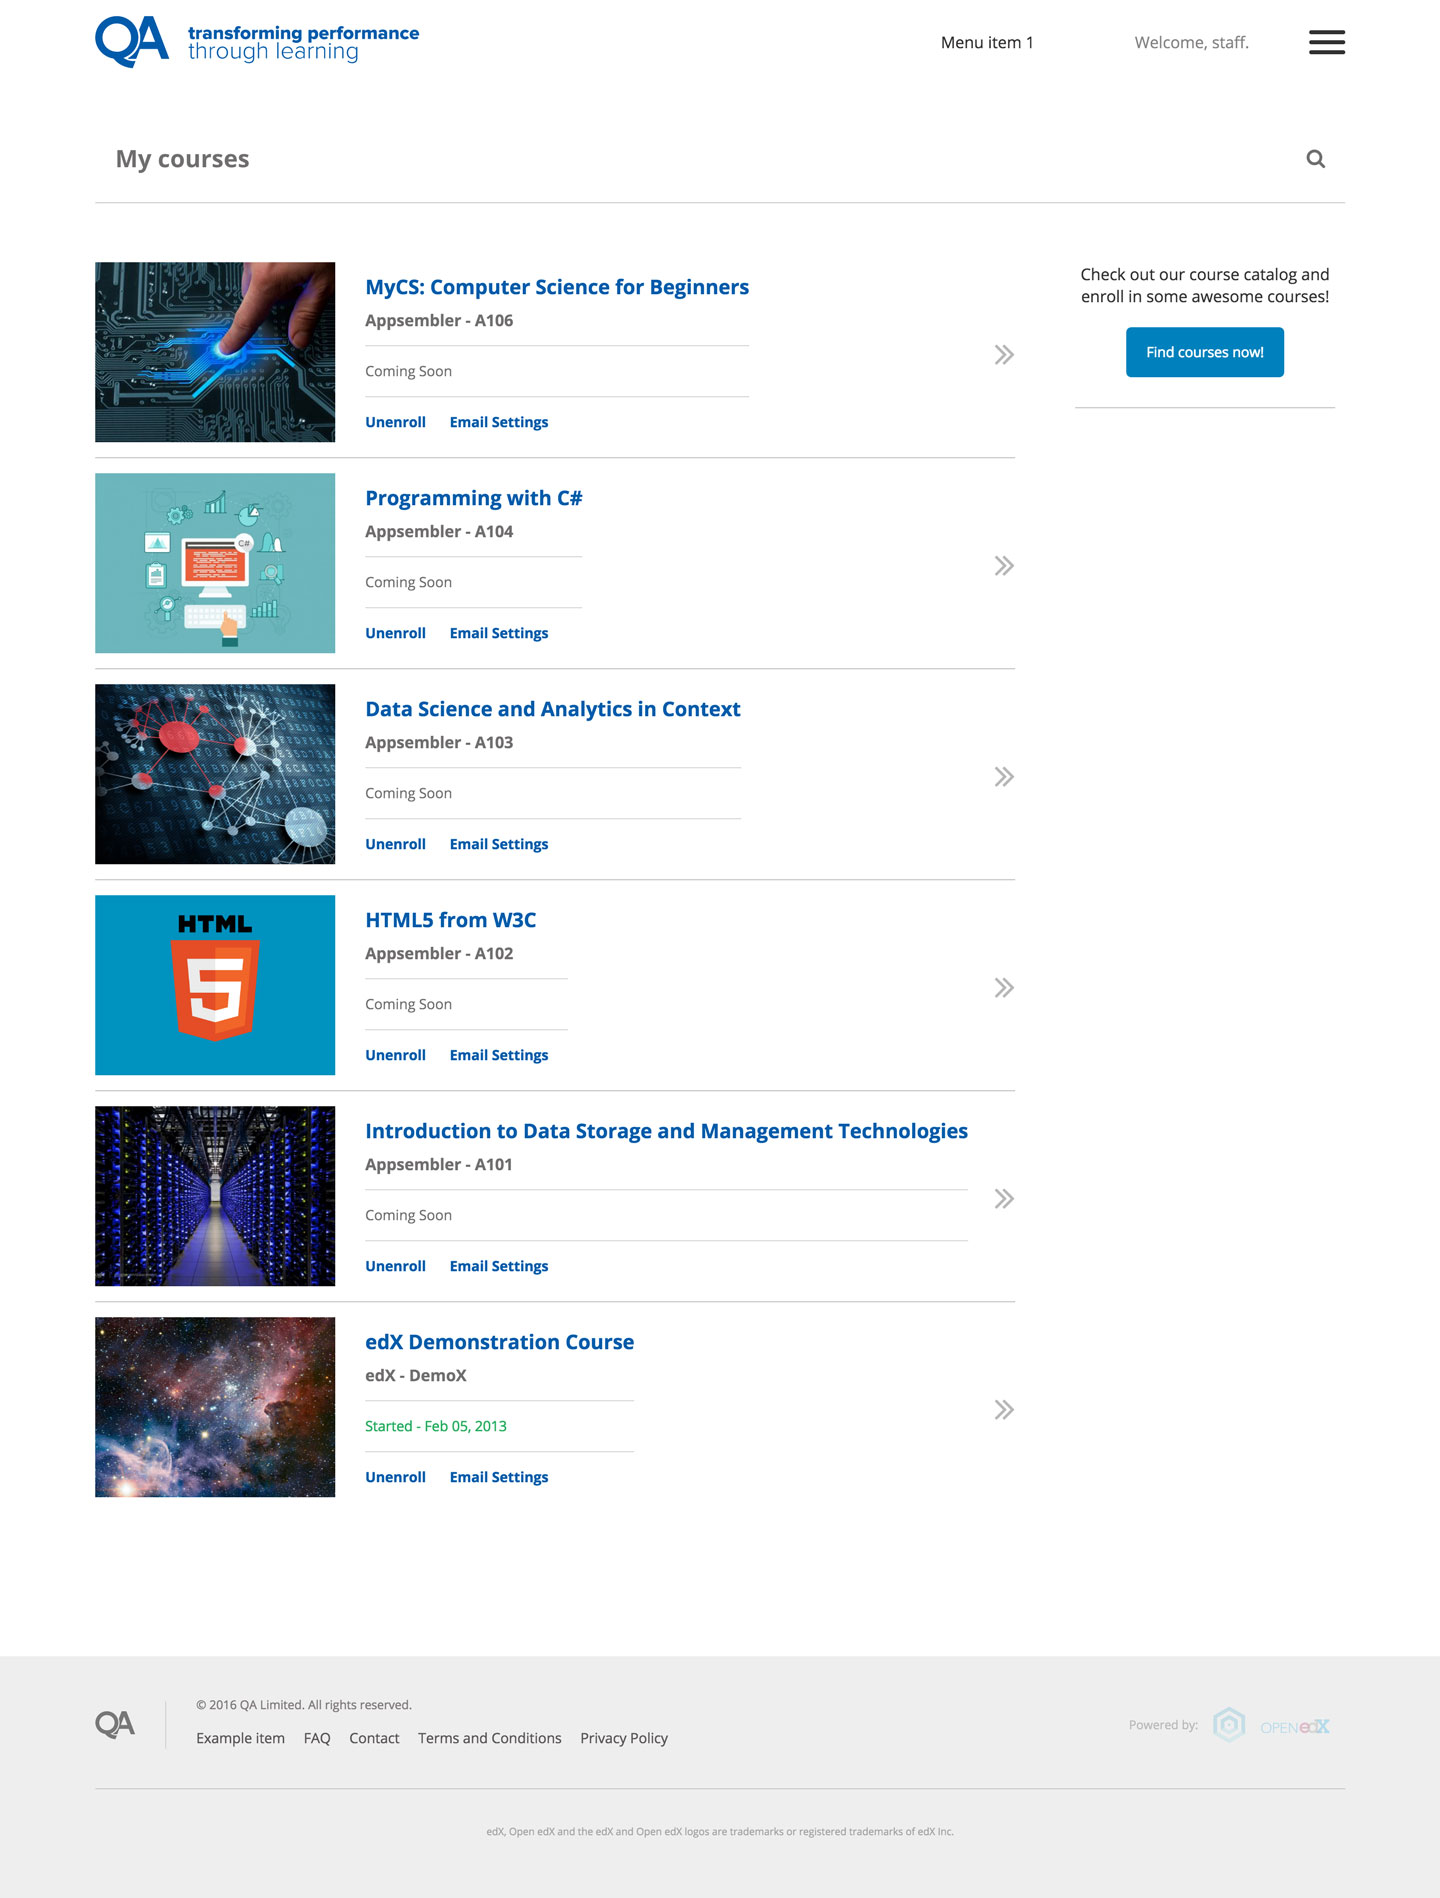
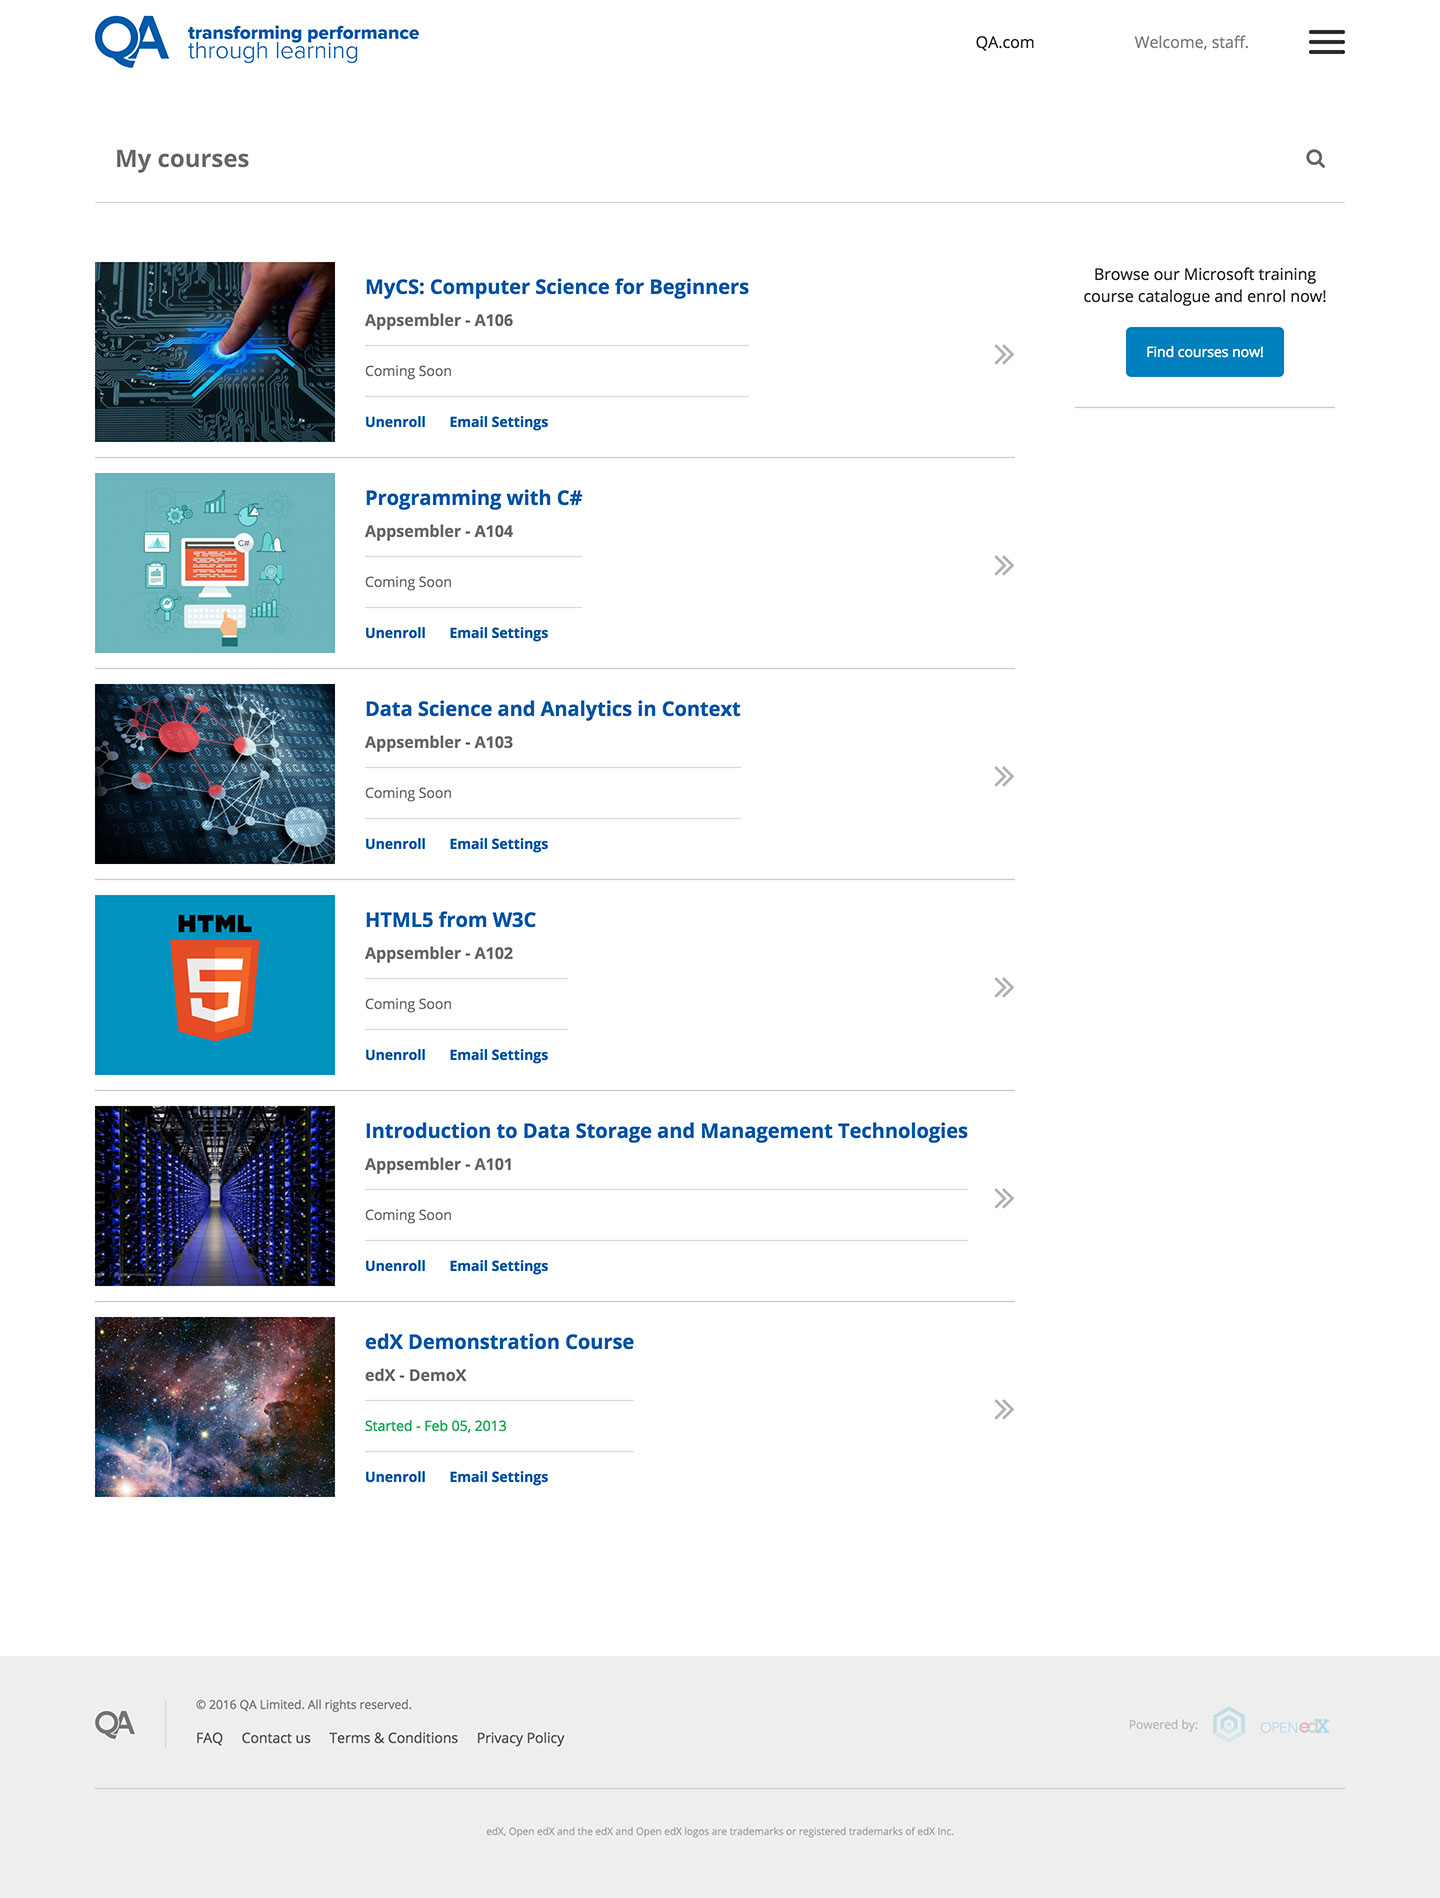
update theme content according to client input

diff --git a/templates/theme-variables.html b/templates/theme-variables.html
@@ -61,8 +61,7 @@
   <%
     return [
       #['LINK_TEXT', 'LINK_URL', 'LINK_CLASS', 'ADDITIONAL_ATTRIBUTES']
-      ['Menu item 1', '#', '', ''],
-      ['Menu item 2', '#', '', '']
+      ['QA.com', 'http://www.qa.com', '', 'target="_blank"']
     ]
   %>
 </%def>
@@ -74,7 +73,7 @@
   <%
     return [
       #['LINK_TEXT', 'LINK_URL', 'LINK_CLASS', 'ADDITIONAL_ATTRIBUTES']
-      ['Menu item 1', '#', '', '']
+      ['QA.com', 'http://www.qa.com', '', 'target="_blank"']
     ]
   %>
 </%def>
@@ -86,10 +85,9 @@
   <%
     return [
       #['LINK_TEXT', 'LINK_URL', 'LINK_CLASS', 'ADDITIONAL_ATTRIBUTES']
-      ['Example item', '#', '', 'target="_blank"'],
       ['FAQ', marketing_link('FAQ'), '', ''],
-      ['Contact', reverse('contact'), '', ''],
-      ['Terms and Conditions', 'http://apprenticeships.qa.com/about-us/legal-notices/terms-and-conditions', '', ''],
+      ['Contact us', reverse('contact'), '', ''],
+      ['Terms & Conditions', 'http://apprenticeships.qa.com/about-us/legal-notices/terms-and-conditions', '', ''],
       ['Privacy Policy', 'http://apprenticeships.qa.com/about-us/legal-notices/privacy-policy', '', '']
     ]
   %>
@@ -129,26 +127,26 @@
         [
           'static-block', 'static-blocks/_hero-section-01.html', {
             # template settings
-            'hero_title' : "Example title of the hero section", ## leave value empty if you don't want it displayed.
-            'hero_subtitle' : "This is the hero subtitle. Below this you can have a CTA button. You can choose what it says and what it does - it can either lead to another page, or it can open a YouTube video popup. Or you can have both those buttons at the same time!", ## leave value empty if you don't want it displayed.
-            'cta_link' : "", ## leave value empty if you don't want a CTA button displayed.
-            'cta_link_text' : "", ## leave value empty if you don't want a CTA button displayed.
-            'popup_video_url' : "r5YdS_ZjXnc", ## YouTube video ID - leave value empty if you don't want a video button and modal displayed.
-            'popup_video_text' : "Watch our video", ## leave value empty if you don't want a video button and modal displayed.
+            'hero_title' : "Award-winning professional training", ## leave value empty if you don't want it displayed.
+            'hero_subtitle' : "", ## leave value empty if you don't want it displayed.
+            'cta_link' : "/register", ## leave value empty if you don't want a CTA button displayed.
+            'cta_link_text' : "Register", ## leave value empty if you don't want a CTA button displayed.
+            'popup_video_url' : "", ## YouTube video ID - leave value empty if you don't want a video button and modal displayed.
+            'popup_video_text' : "", ## leave value empty if you don't want a video button and modal displayed.
             'popup_video_id' : "HeroVideo", ## leave value empty if you don't want a video button and modal displayed.
             'text_color' : "#fff",
-            'bg_image_url' : '/static/themes/qa-dogwood/images/hero-photo-01.jpg', ## leave empty if you want just a full color background
+            'bg_image_url' : '/static/themes/qa-dogwood/images/hero-photo-02.jpg', ## leave empty if you want just a full color background
             'extra_css' : "" ## add custom css to be added inline to the wrapper element
           }
         ],
         [
           'static-block', 'static-blocks/_heading-plus-text-plus-cta.html', {
             # template settings
-            'heading' : "Heading for an additional text block", ## leave value empty if you don't want it displayed.
-            'text' : "<p>You can have additional text blocks on the landing page.</p><p>It can have solid background with white text on it (see the one below on this page), or one like this which is white with standard text color. You can have a CTA below this text chunk that leads to another page, with custom button text.</p><p>The text can be aligned left or centered.</p>", ## leave value empty if you don't want it displayed.
-            'cta_link' : "#", ## leave value empty if you don't want a CTA button displayed.
-            'cta_link_text' : "CTA Button", ## leave value empty if you don't want a CTA button displayed.
-            'optional_classes' : "centered", ## can be "centered" to have all text centered, or "negative" if you want white text on solid color background
+            'heading' : "5 reasons to choose QA OpenEdX for virtual training", ## leave value empty if you don't want it displayed.
+            'text' : '<h2 style="font-size: 2rem; margin: 2.5rem 0 1.5rem;">Classroom-style experience</h2><p>Our effective ‘C3’ (collaborative, contextual, conversational) methodology applies the principles of our classroom courses in a virtual setting</p><h2 style="font-size: 2rem; margin: 2.5rem 0 1.5rem;">Unique online resources</h2><p>Our virtual learning platform, OpenEdX, allows you to network, stream course recordings and view new content added by the learning professionals</p><h2 style="font-size: 2rem; margin: 2.5rem 0 1.5rem;">Learn from anywhere</h2><p>You can access each learning session from anywhere with internet access, ensuring your comfort and saving you time and travel costs</p><h2 style="font-size: 2rem; margin: 2.5rem 0 1.5rem;">Bitesize learning sessions</h2><p>There is no need for long periods off work, with multiple short and focussed learning sessions spaced over a few weeks</p><h2 style="font-size: 2rem; margin: 2.5rem 0 1.5rem;">Full interactions</h2><p>You will be capable of full virtual interactions with the experienced learning professional and the other attendees during each session</p>', ## leave value empty if you don't want it displayed.
+            'cta_link' : "", ## leave value empty if you don't want a CTA button displayed.
+            'cta_link_text' : "", ## leave value empty if you don't want a CTA button displayed.
+            'optional_classes' : "", ## can be "centered" to have all text centered, or "negative" if you want white text on solid color background
             'extra_css' : "" ## add custom css to be added inline to the wrapper element
           }
         ],
@@ -165,8 +163,8 @@
             'max_courses' : 4, ## required, sets max number of courses to be displayed in the block
             'course_template_class' : 'a--course-tile-01', ## required, defined as "a--{template-name}"
             'course_template' : 'single-course/_course-tile-01.html', ## required
-            'section_heading' : "Our latest courses:", ## leave value empty if you don't want it displayed.
-            'section_text' : "The title above for the courses listing is customisable, as well sa this piece of text. There are three different types of course tiles (all three types displayed). Text can be aligned left or centered.", ## leave value empty if you don't want it displayed.
+            'section_heading' : "What courses are available?", ## leave value empty if you don't want it displayed.
+            'section_text' : "A number of our most popular courses are available in virtual learning format. See the full list below:", ## leave value empty if you don't want it displayed.
             'optional_classes' : "", ## can be "centered" to have all text centered
             'extra_css' : "" ## add custom css to be added inline to the wrapper element
           }
@@ -174,10 +172,10 @@
         [
           'static-block', 'static-blocks/_heading-plus-text-plus-cta.html', {
             # template settings
-            'heading' : "Additional text block headline", ## leave value empty if you don't want it displayed.
-            'text' : "<p>This one's aligned left.</p><p>Duis autem vel eum iriure dolor in hendrerit in vulputate velit esse molestie consequat, vel illum dolore eu feugiat nulla facilisis at vero eros et accumsan et iusto odio dignissim qui blandit praesent luptatum zzril delenit augue duis dolore te feugait nulla facilisi. Nam liber tempor cum soluta nobis eleifend option congue nihil imperdiet doming id quod mazim placerat facer possim assum. Typi non habent claritatem insitam; est usus legentis in iis qui facit eorum claritatem. Investigationes demonstraverunt lectores legere me lius quod ii legunt saepius.</p>", ## leave value empty if you don't want it displayed.
-            'cta_link' : "#", ## leave value empty if you don't want a CTA button displayed.
-            'cta_link_text' : "CTA Button", ## leave value empty if you don't want a CTA button displayed.
+            'heading' : "Trusted, awarded and accredited", ## leave value empty if you don't want it displayed.
+            'text' : '<p>Fully accredited to ensure we provide the highest possible standards in learning.</p><div style="margin-top: 3rem; display: -webkit-box; display: -moz-box; display: box; display: -webkit-flex; display: -moz-flex; display: -ms-flexbox; display: flex;-webkit-justify-content: space-between; justify-content: space-between; align-items: center; -webkit-align-items: center;"><img src="/static/themes/qa-dogwood/images/accreditations/accr00.png" style="width: 16.66%; height: auto; max-width: 13rem;" /><img src="/static/themes/qa-dogwood/images/accreditations/accr01.png" style="width: 16.66%; height: auto; max-width: 13rem;" /><img src="/static/themes/qa-dogwood/images/accreditations/accr02.png" style="width: 16.66%; height: auto; max-width: 13rem;" /><img src="/static/themes/qa-dogwood/images/accreditations/accr03.png" style="width: 16.66%; height: auto; max-width: 13rem;" /><img src="/static/themes/qa-dogwood/images/accreditations/accr04.png" style="width: 16.66%; height: auto; max-width: 13rem;" /><img src="/static/themes/qa-dogwood/images/accreditations/accr05.png" style="width: 16.66%; height: auto; max-width: 13rem;" /></div>', ## leave value empty if you don't want it displayed.
+            'cta_link' : "", ## leave value empty if you don't want a CTA button displayed.
+            'cta_link_text' : "", ## leave value empty if you don't want a CTA button displayed.
             'optional_classes' : "negative", ## can be "centered" to have all text centered, or "negative" if you want white text on solid color background
             'extra_css' : "" ## add custom css to be added inline to the wrapper element
           }
@@ -203,24 +201,6 @@
           'about-course-template', 'pages/course-about/_course-about-01.html', {
             # template settings
             'optional_classes' : "", ##
-            'extra_css' : "" ## add custom css to be added inline to the wrapper element
-          }
-        ],
-        [
-          'courses-list', 'static-blocks/_line-separator.html', {
-            # template settings
-            'optional_classes' : "", ## if none line will have height of 0.1rem (1px by default), can be set to "2px", "5px" or "8px"
-            'extra_css' : "" ## add custom css to be added inline to the wrapper element
-          }
-        ],
-        [
-          'static-block', 'static-blocks/_heading-plus-text-plus-cta.html', {
-            # template settings
-            'heading' : "Optional content title", ## leave value empty if you don't want it displayed.
-            'text' : "<p>You can add some additional content here. You can add a CTA under this section as well.</p><p>Lorem ipsum dolor sit amet, consectetuer adipiscing elit, sed diam nonummy nibh euismod tincidunt ut laoreet dolore magna aliquam erat volutpat. Ut wisi enim ad minim veniam, quis nostrud exerci tation ullamcorper suscipit lobortis nisl ut aliquip ex ea commodo consequat.</p>", ## leave value empty if you don't want it displayed.
-            'cta_link' : "#", ## leave value empty if you don't want a CTA button displayed.
-            'cta_link_text' : "CTA button", ## leave value empty if you don't want a CTA button displayed.
-            'optional_classes' : "centered", ## can be "centered" to have all text centered, or "negative" if you want white text on solid color background
             'extra_css' : "" ## add custom css to be added inline to the wrapper element
           }
         ]
@@ -258,19 +238,16 @@
       #   }
       #]
       [
-        'static-block', 'static-blocks/_hero-section-01.html', {
+        'static-block', 'static-blocks/_heading-plus-text-plus-cta.html', {
           # template settings
-          'hero_title' : "Your custom title", ## leave value empty if you don't want it displayed.
-          'hero_subtitle' : "You can change the text that goes here. You can also change the background image of this area.", ## leave value empty if you don't want it displayed.
+          'heading' : "", ## leave value empty if you don't want it displayed.
+          'text' : '<h2 style="font-size: 3.2rem; line-height: 140%; max-width: 86rem; margin: 2.5rem auto 1.5rem;">View our comprehensive training catalogue and check out our flagship training centres.</h2>', ## leave value empty if you don't want it displayed.
           'cta_link' : "", ## leave value empty if you don't want a CTA button displayed.
           'cta_link_text' : "", ## leave value empty if you don't want a CTA button displayed.
-          'popup_video_url' : "", ## YouTube video ID - leave value empty if you don't want a video button and modal displayed.
-          'popup_video_text' : "", ## leave value empty if you don't want a video button and modal displayed.
-          'popup_video_id' : "", ## leave value empty if you don't want a video button and modal displayed.
+          'optional_classes' : "centered negative", ## can be "centered" to have all text centered, or "negative" if you want white text on solid color background
           'text_color' : "#fff",
-          'bg_image_url' : "", ## leave empty if you want just a full color background
           'extra_css' : "padding-top: 5rem; padding-bottom: 5rem;" ## add custom css to be added inline to the wrapper element
-         }
+        }
       ],
       [
         'course-catalogue', 'pages/course-catalogue/_course-catalogue-01.html', {
@@ -281,17 +258,6 @@
         'courses-list', 'static-blocks/_line-separator.html', {
           # template settings
           'optional_classes' : "", ## if none line will have height of 0.1rem (1px by default), can be set to "2px", "5px" or "8px"
-          'extra_css' : "" ## add custom css to be added inline to the wrapper element
-        }
-      ],
-      [
-        'static-block', 'static-blocks/_heading-plus-text-plus-cta.html', {
-          # template settings
-          'heading' : "Optional content can go here", ## leave value empty if you don't want it displayed.
-          'text' : "<p>Lorem ipsum dolor sit amet, consectetuer adipiscing elit, sed diam nonummy nibh euismod tincidunt ut laoreet dolore magna aliquam erat volutpat. Ut wisi enim ad minim veniam, quis nostrud exerci tation ullamcorper suscipit lobortis nisl ut aliquip ex ea commodo consequat.</p>", ## leave value empty if you don't want it displayed.
-          'cta_link' : "http://www.appsembler.com", ## leave value empty if you don't want a CTA button displayed.
-          'cta_link_text' : "CTA Button", ## leave value empty if you don't want a CTA button displayed.
-          'optional_classes' : "", ## can be "centered" to have all text centered, or "negative" if you want white text on solid color background
           'extra_css' : "" ## add custom css to be added inline to the wrapper element
         }
       ]
@@ -313,7 +279,7 @@
       'discovery_facet_option' : '_facet_option-01.underscore', ## define which template for a single facet to use
       'discovery-search-template' : 'live-blocks/discovery/_discovery-search-01.html', ## design which discovery-search block design to use
       'promote_course_catalog' : True,
-      'promote_course_catalog_text' : "Check out our course catalog and enroll in some awesome courses!"
+      'promote_course_catalog_text' : "Browse our Microsoft training course catalogue and enrol now!"
     }
   %>
 </%def>
